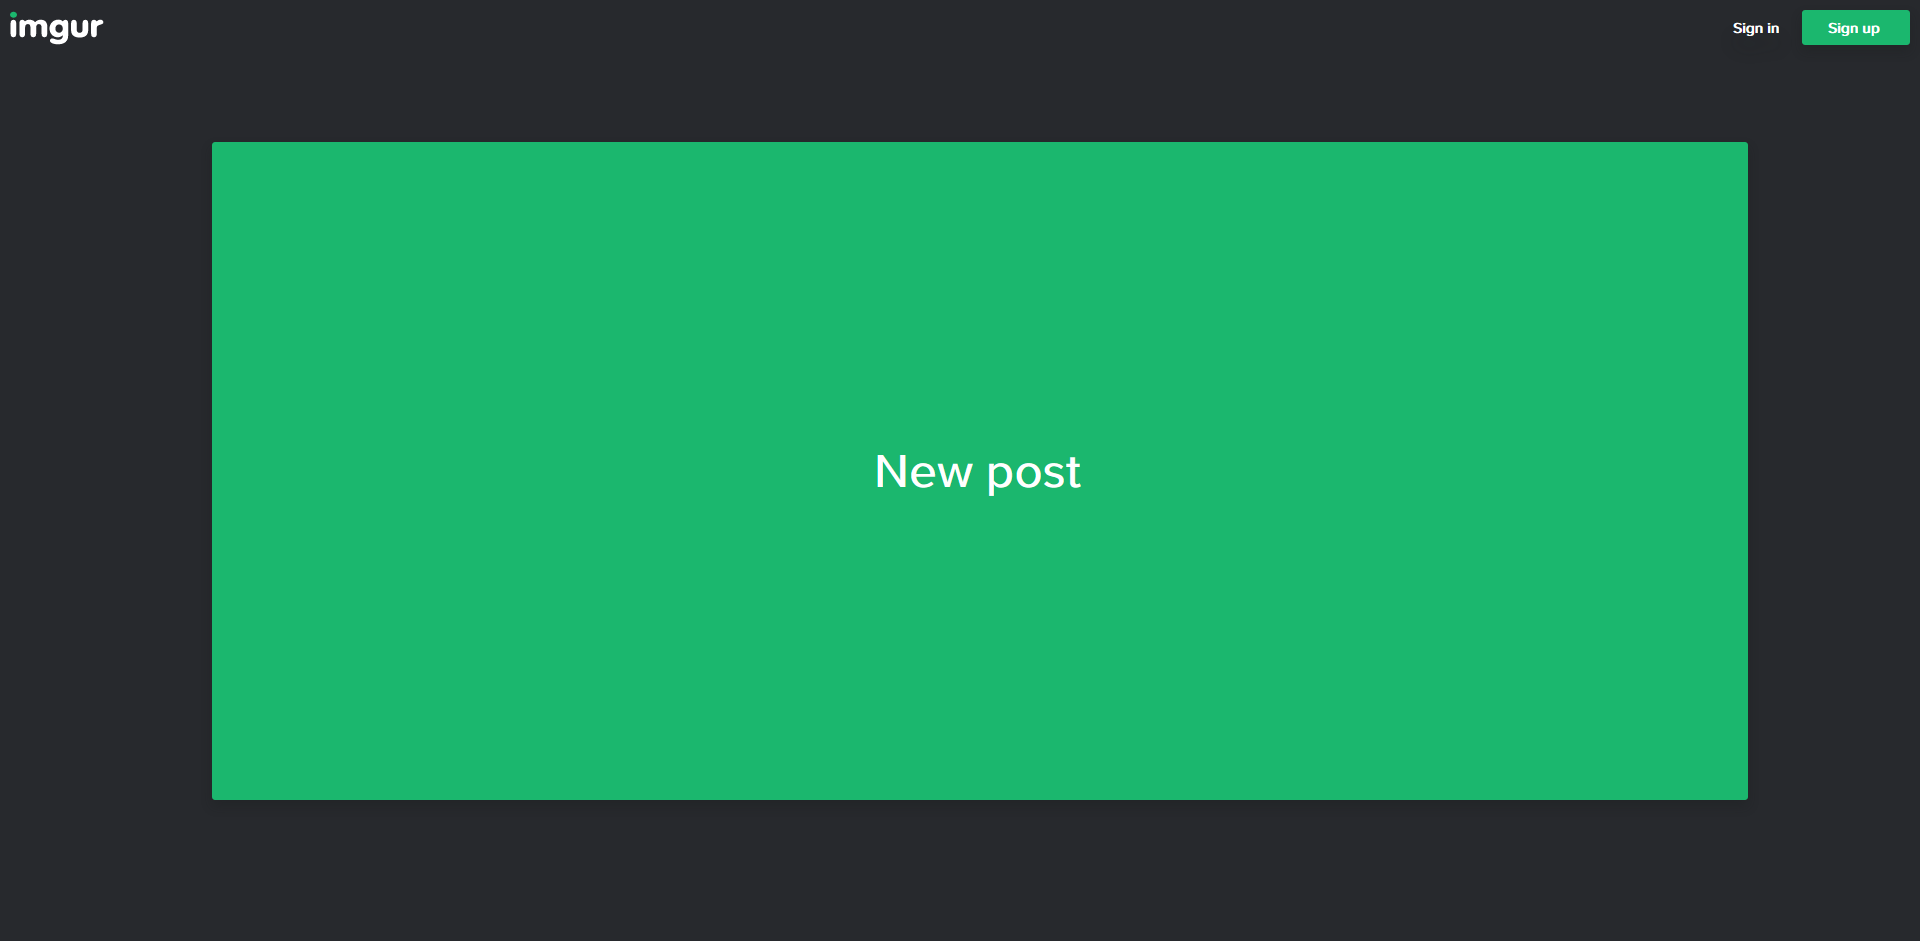
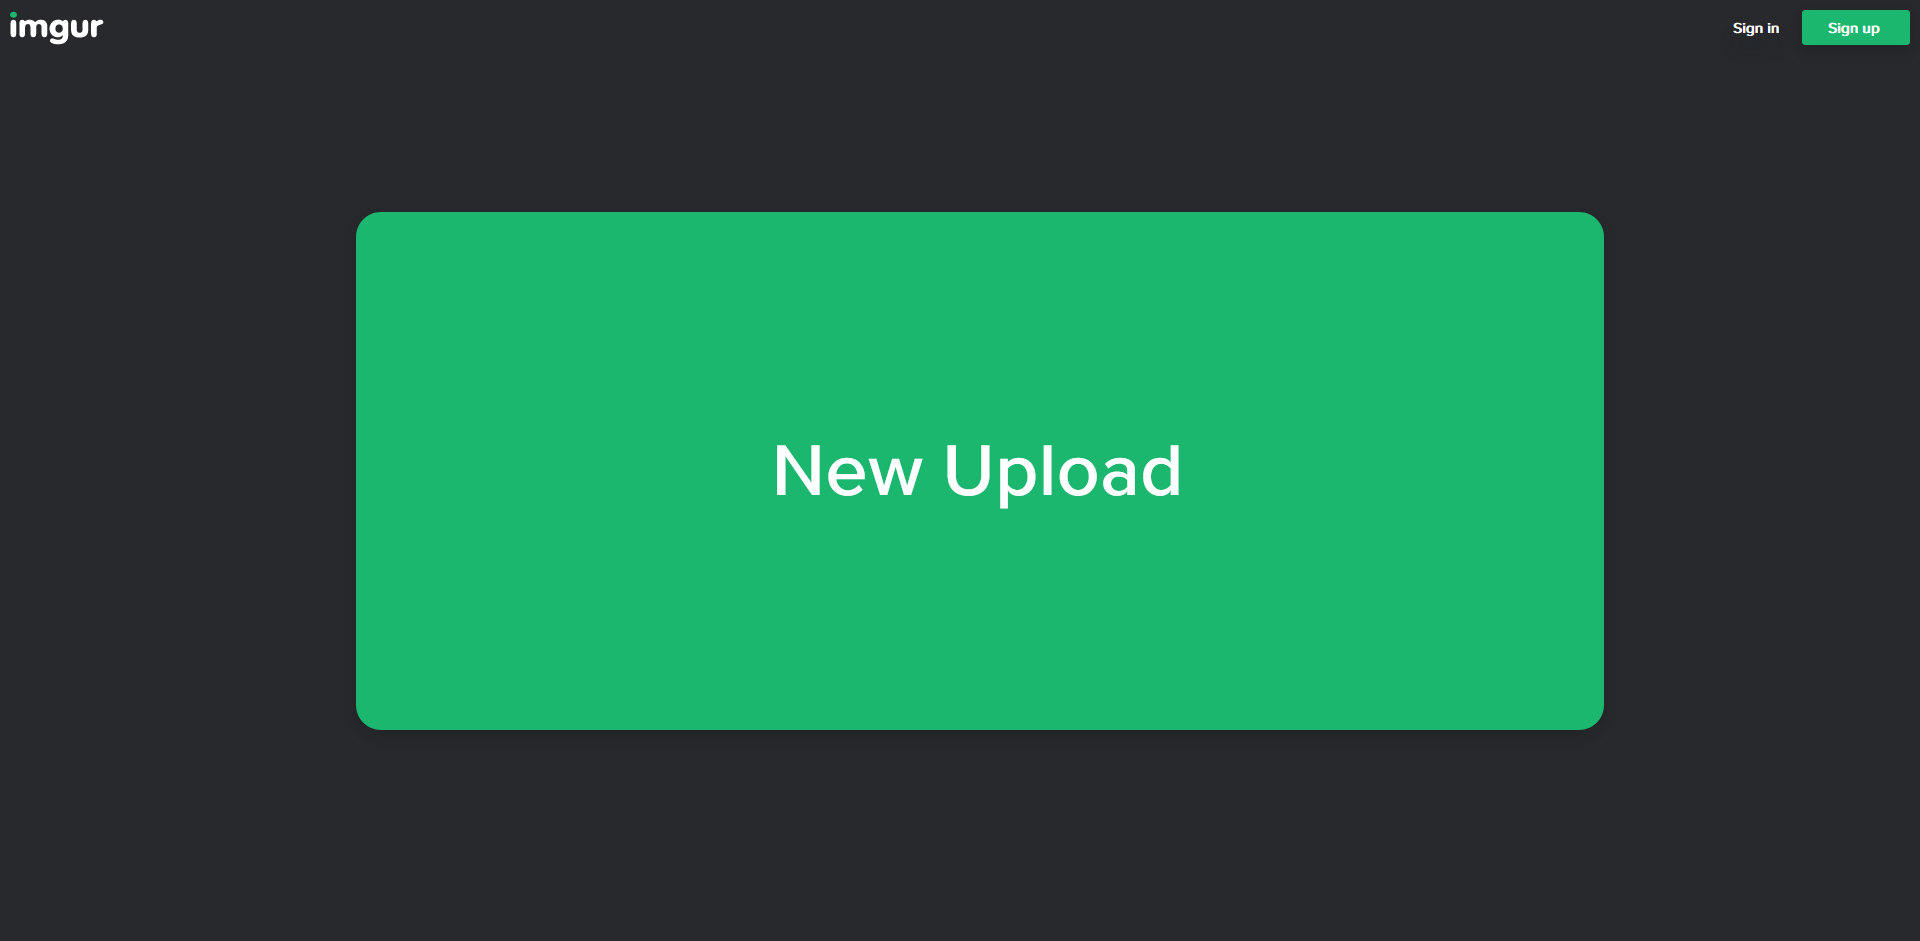
Imgur MDfNI: Changes to frontpage's new post button, fixes to album edit pages

Changed region(s): [[0.0938, 0.1233, 0.9375, 0.8629], [0.4062, 0.4623, 0.625, 0.5547]]

diff --git a/Imgur - Minimal Design for non-Imgurians/imgur_-_minimal_design_for_non-imgurians.user.css b/Imgur - Minimal Design for non-Imgurians/imgur_-_minimal_design_for_non-imgurians.user.css
@@ -5,7 +5,7 @@
 @namespace    github.com/krisu5/userstyles
 @homepageURL  https://github.com/krisu5/userstyles/tree/master/Imgur%20-%20Minimal%20and%20Anti-Social%20for%20non-Imgurians
 @supportURL   https://github.com/krisu5/userstyles/issues
-@version      1.0.0
+@version      1.0.1
 @license      unlicense
 @preprocessor default
 ==/UserStyle== */
@@ -23,7 +23,7 @@
    ---------------------------------------------- */
 
 .InteractiveBackground, .Message.welcome, .TrendingTags, .CoverChangeGallery,
-.Spinner-contentWrapper, .NewCover.isFixed, .Button.upload img, .PopUpClose
+.Spinner-contentWrapper, .NewCover.isFixed, .PopUpClose, .Button.upload img
 { display: none !important; }
 
 body, html { overflow-y: hidden !important; }
@@ -33,12 +33,20 @@ body, html { overflow-y: hidden !important; }
 	top: 50% !important;
 	left: 50% !important;
 	transform: translate(-50%, -50%) !important;
-	width: 80% !important;
-	height: 70% !important;
-	font-size: 350% !important;
+	width: 65% !important;
+	height: 55% !important;
+	font-size: 0;
+	border-radius: 25px !important;
 	display: flex !important;
 	justify-content: center !important;
 	align-items: center !important;
+}
+
+.Button.upload:hover:before { border-radius: 25px !important; }
+
+.Button.upload:after {
+    content: "New Upload";
+    font-size: 55pt;
 }
 
 .NewCover { background: transparent !important; }
@@ -54,6 +62,7 @@ body, html { overflow-y: hidden !important; }
    \____/\__,_|_|_|\___|_|   \__, |
                               __/ |
                              |___/
+   & Upload page
    -------------------------------- */
 
 /* ================================
@@ -62,7 +71,7 @@ body, html { overflow-y: hidden !important; }
 
 .CommentsList, .Footer, .Gallery-Sidebar, .NavbarNotifications, .Searchbar, .Navigation-Container, .Gallery-CommentsCounter,
 .share-fb, .share-twttr, .Gallery-Vote, .share-reddit, .share-email, .share-report, .CoverPostMeta.Display, .ButtonBackToTop,
-.Gallery-Content--tags
+.Gallery-Content--tags, .TagManager.PostOptions-section, .TagSuggestion-container
 { display: none !important; }
 
 body:not([class=""]) { background-color: #27292d; }
@@ -86,6 +95,7 @@ body:not([class=""]) { background-color: #27292d; }
 
 .loadMore { margin-bottom: 25px !important; }
 
+.UploadPost .ImageDescription { padding: 0 24px 24px !important; }
 
 
 /* ================================
@@ -93,7 +103,8 @@ body:not([class=""]) { background-color: #27292d; }
    ================================ */
 
 .Open-Save-To-Folder-Button, #cta-container, #comments-container, .left #recommendations,
-.next-prev, #right-content, .search-container, #notification-container, .post-action *
+.next-prev, #side-gallery, .search-container, #notification-container, .post-action *,
+.side-footer-links, .divider, [class^="post-options-tag"]
 { display: none !important; }
 
 #topbar .account { left: -175px !important; }
@@ -102,6 +113,10 @@ body:not([class=""]) { background-color: #27292d; }
     transform: translateX(20%) !important;
     margin-bottom: 20px !important;
 }
+
+.upload-global-post .post-pad { transform: inherit !important; }
+
+ul.post-options-extra { margin-top: 20px !important; }
 
 .post-action {
 	padding: 0 !important;

diff --git a/Imgur - Minimal Design for non-Imgurians/README.md b/Imgur - Minimal Design for non-Imgurians/README.md
@@ -20,4 +20,5 @@ Works with old and new gallery design!
 
 ## Changelog
 
+- *2020-03-30:* Changes to frontpage's new post button, fixes to album edit pages
 - *2020-03-29:* Initial release
